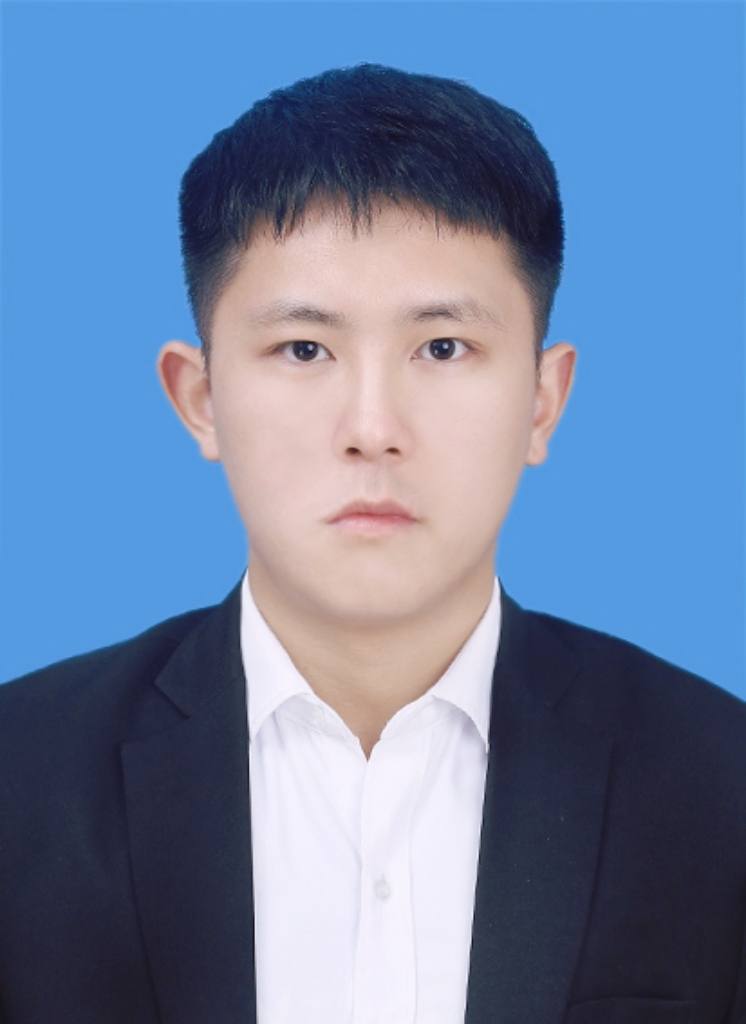
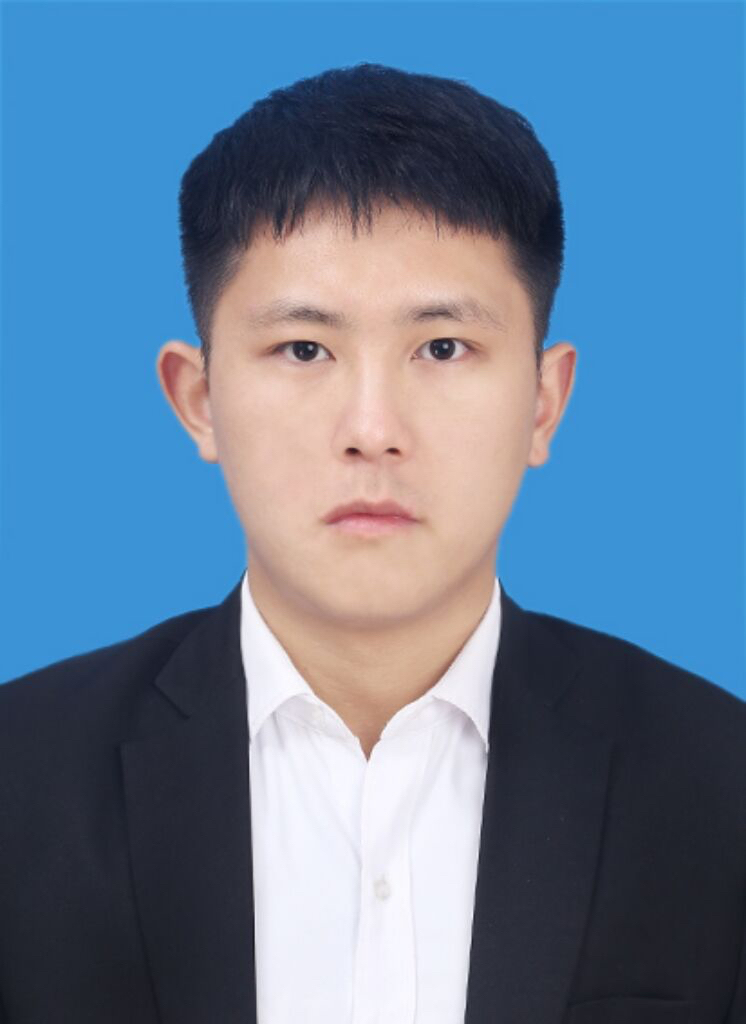
update: index.html

diff --git a/index.html b/index.html
@@ -200,7 +200,7 @@
                     </div>
                 </div>
                 <div class="member">
-                    <img src="/members/index.png" alt="Master's Student Photo" class="member-photo">
+                    <img src="/members/fang.jpg" alt="Master's Student Photo" class="member-photo">
                     <div class="member-info">
                         <p><strong>Zhou Fang</strong></p>
                         <p>Email: 2213301007@st.gxu.edu.cn</p>
@@ -309,7 +309,7 @@
                     </div>
                 </div>
                 <div class="member">
-                    <img src="/members/index.png" alt="Master's Student Photo" class="member-photo">
+                    <img src="/members/fang.jpg" alt="Master's Student Photo" class="member-photo">
                     <div class="member-info">
                         <p><strong>方舟</strong></p>
                         <p>Email: 2213301007@st.gxu.edu.cn</p>
